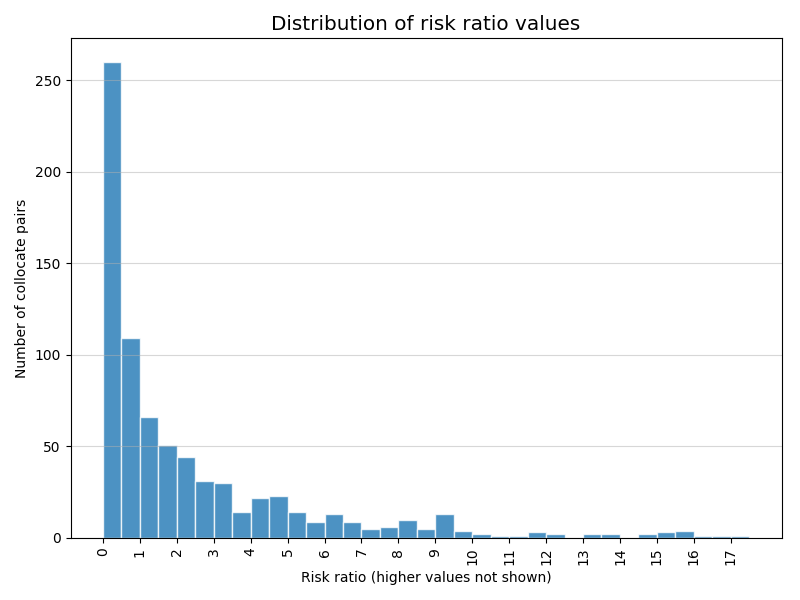
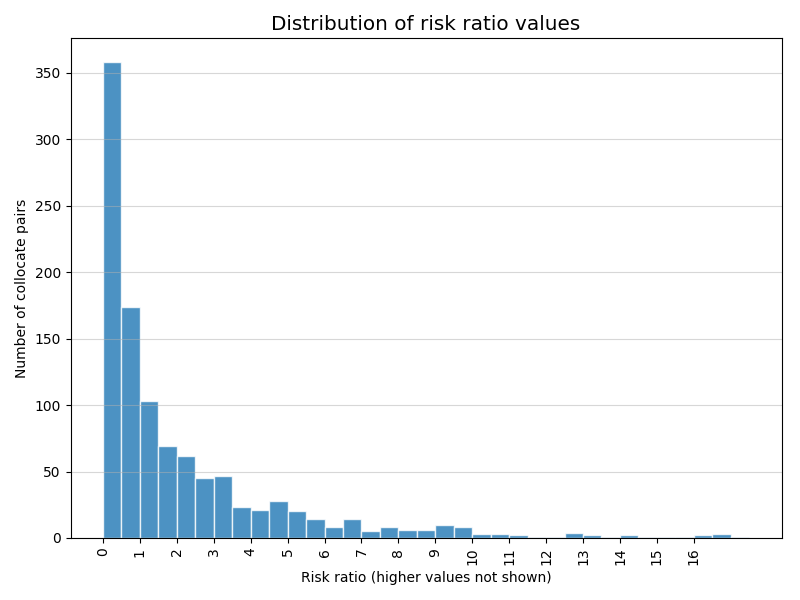
meep

diff --git a/d6_graphics/graphing.py b/d6_graphics/graphing.py
@@ -1,16 +1,19 @@
 import matplotlib.pyplot as pyplot
 import csv
 import math
-from collections import defaultdict
+import os
 
 
-def meep(title='', xlabel='', ylabel='', fname='', xticks=0, xlim=0, ylim=0, dim=(8, 6)):
+# General graphing function
+def graph_it(title='', xlabel='', ylabel='', fname='',
+             xticks=None, xlim=(), ylim=(), dim=(8, 6)):
+
     pyplot.gcf().set_size_inches(dim[0], dim[1])
     pyplot.grid(axis='y', alpha=0.5)
     pyplot.title(title, fontsize='x-large')
     pyplot.xlabel(xlabel, fontsize='medium')
     pyplot.ylabel(ylabel, fontsize='medium')
-    pyplot
+
     if xlim:
         pyplot.xlim(xlim[0], xlim[1])
 
@@ -25,54 +28,78 @@ def meep(title='', xlabel='', ylabel='', fname='', xticks=0, xlim=0, ylim=0, dim
     pyplot.close()
 
 
+# Plot risk ratio values
 def plot_rr():
-    with open('../d5_statistics/assoc_stats/__assoc_stats.csv', 'r') as f:
+    with open(main_data_file, 'r') as f:
         data = [r[1] for r in csv.reader(f)][1:]
 
     bin_edges = [0.5*i for i in range(36)]
     data = [round(float(e), 2) for e in data]
-    n, bins, patches = pyplot.hist(data, bins=bin_edges, histtype='bar', edgecolor='w', alpha=0.8)
+    pyplot.hist(data, bins=bin_edges, histtype='bar', edgecolor='w', alpha=0.8)
 
-    meep('Distribution of risk ratio values', 'Risk ratio (higher values not shown)', 'Number of collocate pairs',
-         'RR.png', [1*i for i in range(18)])
+    graph_it('Distribution of risk ratio values',
+             'Risk ratio (higher values not shown)',
+             'Number of collocate pairs',
+             'RR.png',
+             [1*i for i in range(17)])
 
 
+# Plot risk ratio confidence interval lower bounds
 def plot_rrci():
-    with open('../d5_statistics/assoc_stats/__assoc_stats.csv', 'r') as f:
-        data = [r[-6] for r in csv.reader(f)][1:]
+    with open(main_data_file, 'r') as f:
+        data = [r[8] for r in csv.reader(f)][1:]
 
     bin_edges = [0.5 * i for i in range(36)]
     data = [round(float(e), 2) for e in data]
-    n, bins, patches = pyplot.hist(data, bins=bin_edges, histtype='bar', edgecolor='w', alpha=0.8)
-    meep('Distribution of risk ratio values (confidence interval lower bounds)', 'Risk ratio (higher values not shown)',
-         'Number of collocate pairs', 'RR_ci.png',
-         [1*i for i in range(18)])
+    pyplot.hist(data, bins=bin_edges, histtype='bar', edgecolor='w', alpha=0.8)
+
+    graph_it(
+        'Distribution of risk ratio values (confidence interval lower bounds)',
+        'Risk ratio confidence interval lower bounds (higher values not shown)',
+        'Number of collocate pairs',
+        'RR_ci.png',
+        [1*i for i in range(17)])
 
 
+# Plot log risk ratios
 def plot_logrr():
-    with open('../d5_statistics/assoc_stats/__assoc_stats.csv', 'r') as f:
+    with open(main_data_file, 'r') as f:
         data = [r[1] for r in csv.reader(f)][1:]
 
     data = [round(math.log(float(e)), 2) for e in data]
-    n, bins, patches = pyplot.hist(data, bins=[i*0.5 for i in range(-16, 24)], histtype='bar', edgecolor='w', alpha=0.8)
-    meep('Distribution of log risk ratio', 'Log risk ratio', 'Number of collocate pairs',
-         'RR_log.png', [i for i in range(-8, 12)])
+    pyplot.hist(data, bins=[i*0.5 for i in range(-16, 24)], histtype='bar',
+                edgecolor='w', alpha=0.8)
+
+    graph_it('Distribution of log risk ratio',
+             'Log risk ratio',
+             'Number of collocate pairs',
+             'RR_log.png',
+             [i for i in range(-8, 12)])
 
 
 def plot_register():
     for reg in ['spoken', 'written']:
-        with open('../d5_statistics/assoc_stats_{0}/__assoc_stats_{0}.csv'.format(reg), 'r') as f:
+        file_path = '../d5_statistics/association_stats_{0}/\
+                     000__association_stats_{0}.csv'
+
+        with open(file_path.format(reg), 'r') as f:
             data = [r[1] for r in csv.reader(f)][1:]
 
         bin_edges = [0.5*i for i in range(36)]
         data = [round(float(e), 2) for e in data]
-        n, bins, patches = pyplot.hist(data, bins=bin_edges, histtype='bar', edgecolor='w', alpha=0.8)
-        meep('Histogram of risk ratios in {0} register'.format(reg), 'Risk ratio (higher values not shown)', 'Number of collocate pairs',
-             'RR_{0}.png'.format(reg), [1 * i for i in range(18)], (0, 20))
+        pyplot.hist(data, bin_edges, histtype='bar', edgecolor='w', alpha=0.8)
+
+        graph_it('Histogram of risk ratios in {0} register'.format(reg),
+                 'Risk ratio (higher values not shown)',
+                 'Number of collocate pairs',
+                 'RR_{0}.png'.format(reg),
+                 [1 * i for i in range(18)],
+                 (0, 20))
 
 
 def plot_verbtrends():
-    target_pairs = ["('Prog1', 'Past')", "('PastPart→Noun', 'Acc')", "('Narr', 'Cop')"]
+    target_pairs = ["('Prog1', 'Past')", "('PastPart→Noun', 'Acc')",
+                    "('Narr', 'Cop')"]
     pair_rows = []
 
     with open('../d5_statistics/cross_verb_trends.csv', 'r') as f:
@@ -91,16 +118,24 @@ def plot_verbtrends():
 
         pyplot.plot(x_vals, p[1:-1])
         pyplot.axhline(y=p[-1], color='r', linestyle='-')
-        meep('RR trend of {0}'.format(p[0]), 'Verb types', 'Risk ratio', 'verb_trend_{0}.png'.format(p[0]),
-             [e for e in x_vals if x_vals.index(e) % 20 == 0])
+
+        graph_it('RR trend of {0}'.format(p[0]),
+                 'Verb types',
+                 'Risk ratio',
+                 'verb_trend_{0}.png'.format(p[0]),
+                 [e for e in x_vals if x_vals.index(e) % 20 == 0])
 
 
 def plot_rrvsfreq():
-    with open('../d5_statistics/assoc_stats/__assoc_stats.csv', 'r') as f:
+    with open(main_data_file, 'r') as f:
         data = [(r[1], r[-1]) for r in csv.reader(f)][1:]
 
     pyplot.scatter([e[0] for e in data], [e[1] for e in data], s=5)
-    meep('Risk ratio by verb instance frequency', 'Risk ratio', 'Number of verb instances', 'rrvsfreq.png',)
+
+    graph_it('Risk ratio by verb instance frequency',
+             'Risk ratio',
+             'Number of verb instances',
+             'rrvsfreq.png',)
 
 
 def plot_rr_vs_num_verbs():
@@ -118,15 +153,84 @@ def plot_rr_vs_num_verbs():
             data.append((r[-2], num_verbs))
 
     pyplot.scatter([e[0] for e in data], [e[1] for e in data], s=5)
-    meep('Risk ratio vs verb type frequency', 'Risk ratio', 'Type frequency',
-         'type_freq.png')
+
+    graph_it('Risk ratio vs verb type frequency',
+             'Risk ratio',
+             'Type frequency',
+             'type_freq.png')
 
 
-# plot_rr()
-plot_logrr()
-# plot_rrci()
-# plot_register()
-# plot_verbtrends()
-# plot_rrvsfreq()
-# plot_rr_vs_num_verbs()
-exit(0)
+def plot_num_datapoints():
+    filenames = os.listdir('../d2_data/query_results_freq_dict/')
+    filenames.sort()
+    nums_data = []
+    stems = []
+
+    for filename in filenames:
+        file_path = '../d2_data/query_results_freq_dict/'
+
+        with open(os.path.join(file_path, filename), 'r') as f:
+            num_data = len([r for r in csv.reader(f)][1:])
+            nums_data.append(num_data)
+
+        stem = filename.split('_')[2]
+        stems.append(stem)
+
+    print(len(nums_data))
+    print(sum(nums_data))
+    exit()
+
+    pyplot.bar(stems, nums_data)
+
+    graph_it('Distribution of datapoints by verb types',
+             'Verb types',
+             'Number of datapoints',
+             'num_datapoints.png',
+             xticks=[s for s in stems if stems.index(s) % 20 == 0])
+
+
+def plot_integrity():
+    with open(main_data_file, 'r') as f:
+        data = [r for r in csv.reader(f)][1:]
+
+    data = [float(r[-2]) / float(r[-3]) for r in data]
+    pyplot.hist(data, bins=[i * 0.1 for i in range(0, 11)],
+                histtype='bar', edgecolor='w', alpha=0.8)
+
+    graph_it('Distribution of collocate pair integrity',
+             'Integrity',
+             'Number of collocate pairs',
+             'trigram_integrity.png',
+             [i*0.1 for i in range(0, 11)])
+
+
+def plot_stem_trigram_rr():
+    with open('../d5_statistics/trigram/stem_trigram_rr.csv', 'r') as f:
+        data = [r[2] for r in csv.reader(f)][1:]
+
+    bin_edges = [0.5*i for i in range(21)]
+    data = [round(float(e), 2) for e in data]
+    pyplot.hist(data, bins=bin_edges, histtype='bar', edgecolor='w', alpha=0.8)
+
+    graph_it('Distribution of risk ratio of stem-trigram pairs',
+             'Risk ratio (higher values not shown)',
+             'Number of collocate pairs',
+             'stem_trigram_rr.png',
+             [1*i for i in range(11)])
+
+
+if __name__ == '__main__':
+    main_data_file = '../d5_statistics/association_stats/\
+                      000__association_stats.csv'
+
+    # plot_rr()
+    plot_rrci()
+    # plot_logrr()
+    # plot_register()
+    # plot_verbtrends()
+    # plot_rrvsfreq()
+    # plot_rr_vs_num_verbs()
+    # plot_num_datapoints()
+    # plot_integrity()
+    # plot_stem_trigram_rr()
+    exit(0)
